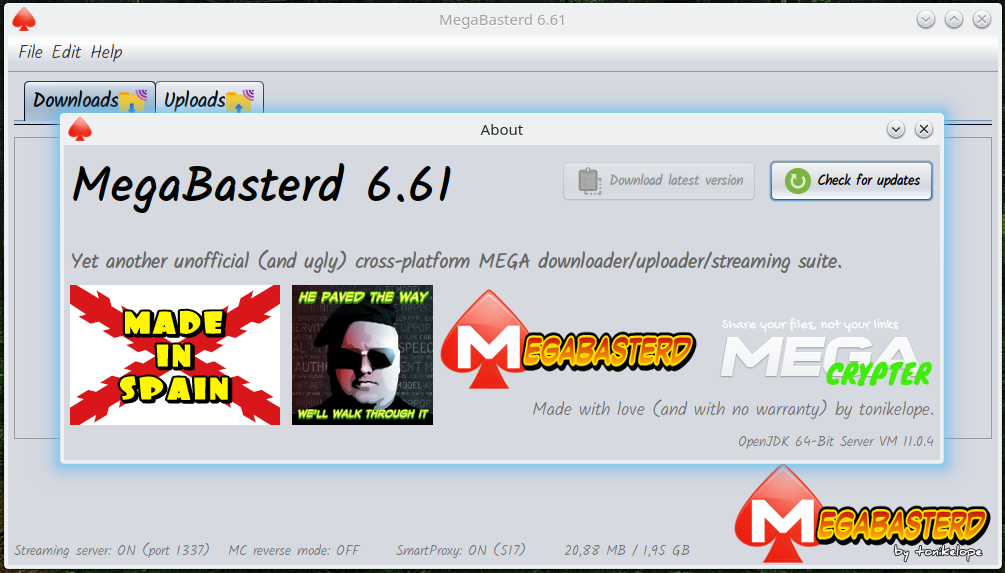
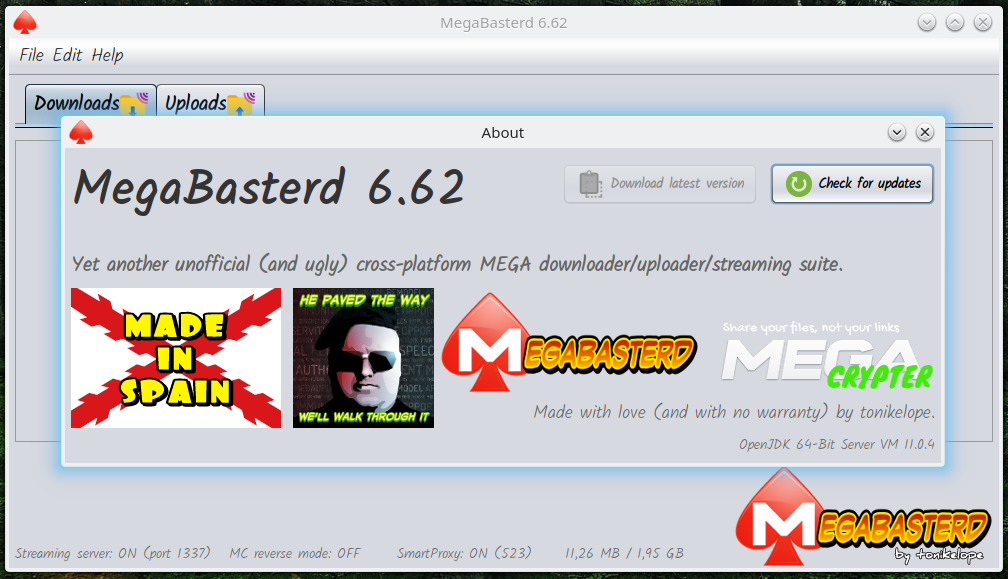
6.62
-Provision transference error message fix

diff --git a/src/main/java/com/tonikelope/megabasterd/Download.java b/src/main/java/com/tonikelope/megabasterd/Download.java
@@ -959,7 +959,9 @@ public class Download implements Transference, Runnable, SecureSingleThreadNotif
 
         if (!_provision_ok) {
 
-            _status_error = "PROVISION FAILED";
+            if (_status_error == null) {
+                _status_error = "PROVISION FAILED";
+            }
 
             if (_file_name != null) {
                 swingInvoke(() -> {

diff --git a/src/main/java/com/tonikelope/megabasterd/Upload.java b/src/main/java/com/tonikelope/megabasterd/Upload.java
@@ -404,7 +404,9 @@ public class Upload implements Transference, Runnable, SecureSingleThreadNotifia
 
         if (!_provision_ok) {
 
-            _status_error = "PROVISION FAILED";
+            if (_status_error == null) {
+                _status_error = "PROVISION FAILED";
+            }
 
             if (_file_name != null) {
                 swingInvoke(() -> {

diff --git a/src/main/java/com/tonikelope/megabasterd/MainPanel.java b/src/main/java/com/tonikelope/megabasterd/MainPanel.java
@@ -53,7 +53,7 @@ import javax.swing.UIManager;
  */
 public final class MainPanel {
 
-    public static final String VERSION = "6.61";
+    public static final String VERSION = "6.62";
     public static final int THROTTLE_SLICE_SIZE = 16 * 1024;
     public static final int DEFAULT_BYTE_BUFFER_SIZE = 16 * 1024;
     public static final int STREAMER_PORT = 1337;
